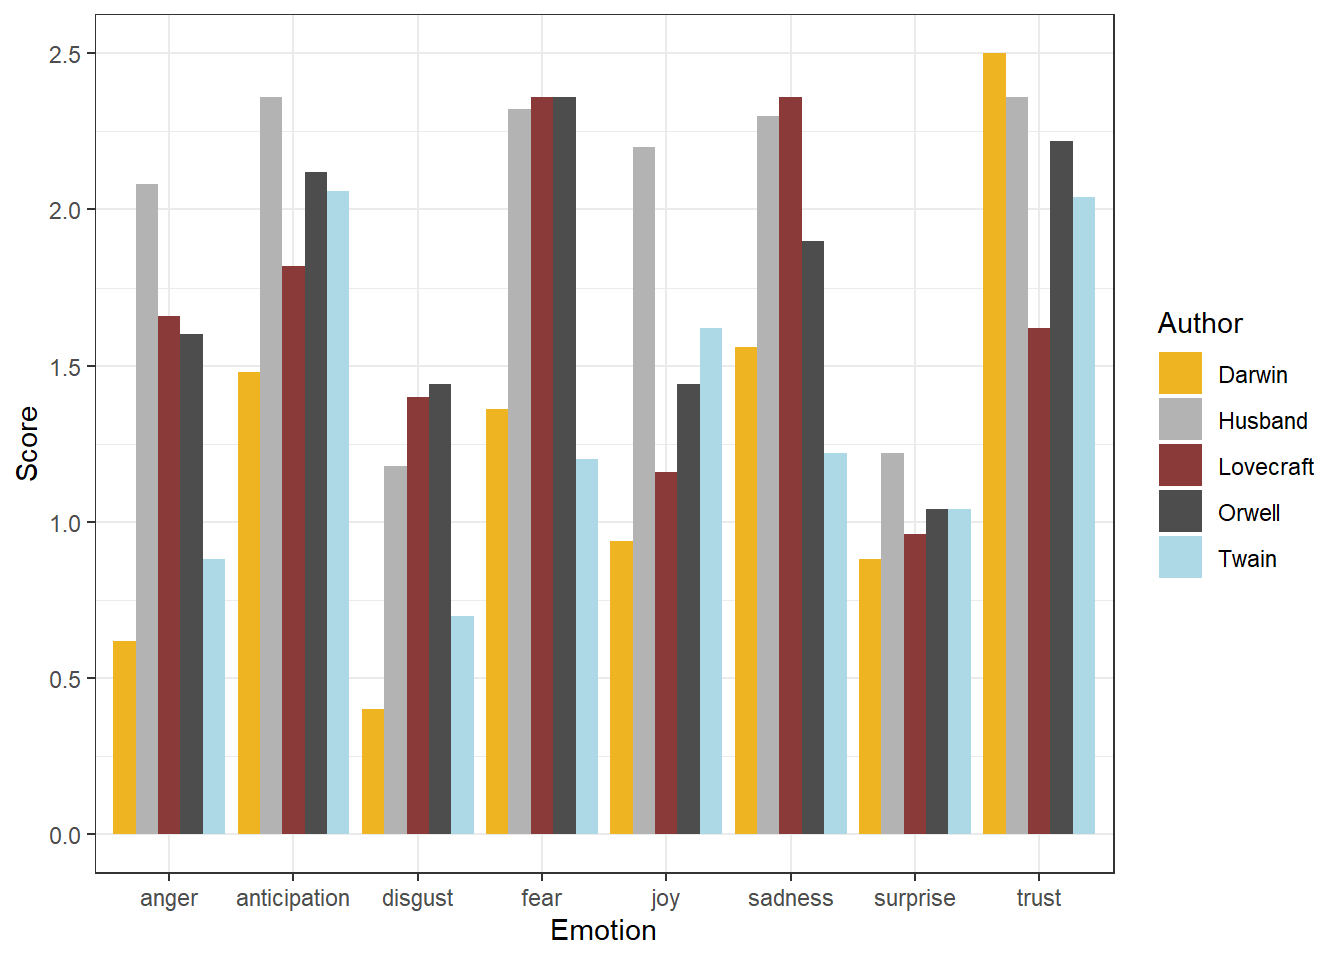
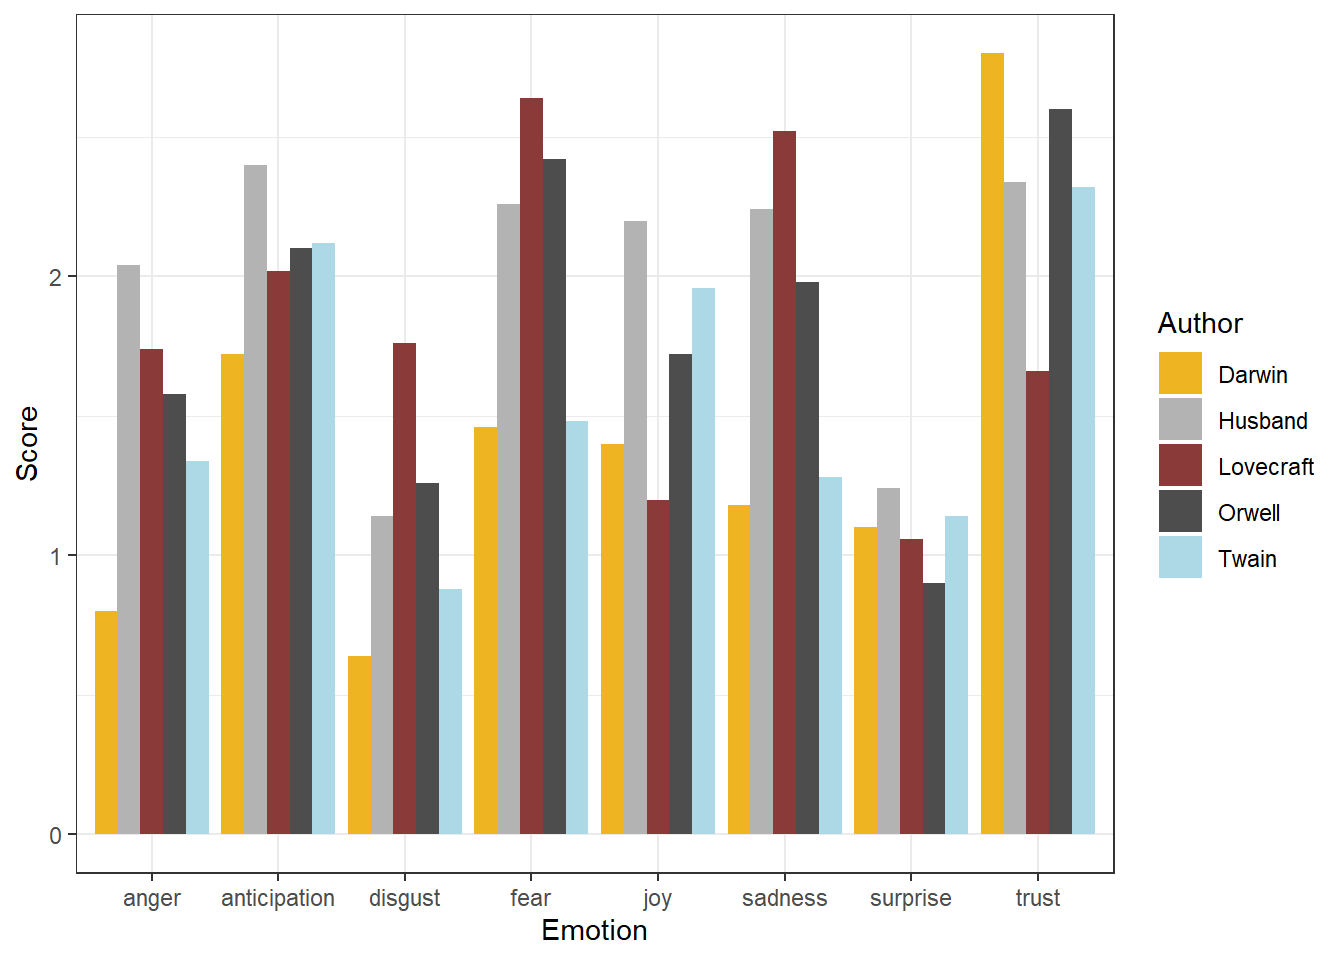
index and regression update

diff --git a/kwics.html b/kwics.html
@@ -465,6 +465,9 @@ div.tocify {
       <a href="topicmodels.html">Topic Modeling</a>
     </li>
     <li>
+      <a href="sentiment.html">Sentiment Analysis</a>
+    </li>
+    <li>
       <a href="tagging.html">Tagging and Parsing</a>
     </li>
   </ul>
@@ -562,54 +565,12 @@ install.packages(c(&quot;quanteda&quot;, &quot;dplyr&quot;, &quot;stringr&quot;,
 <h2>Loading and processing textual data</h2>
 <p>Before creating concordances or kwics, we load the necessary packages from the R library which will help to download, process, and display the data as well as create the concordances.</p>
 <pre class="r"><code># activate packages
-lapply(c(&quot;quanteda&quot;, &quot;dplyr&quot;, &quot;stringr&quot;, &quot;knitr&quot;, &quot;kableExtra&quot;, &quot;gutenbergr&quot;), 
-       library, character.only = TRUE)</code></pre>
-<pre><code>## Package version: 2.1.1</code></pre>
-<pre><code>## Parallel computing: 2 of 8 threads used.</code></pre>
-<pre><code>## See https://quanteda.io for tutorials and examples.</code></pre>
-<pre><code>## 
-## Attaching package: &#39;quanteda&#39;</code></pre>
-<pre><code>## The following object is masked from &#39;package:utils&#39;:
-## 
-##     View</code></pre>
-<pre><code>## 
-## Attaching package: &#39;dplyr&#39;</code></pre>
-<pre><code>## The following objects are masked from &#39;package:stats&#39;:
-## 
-##     filter, lag</code></pre>
-<pre><code>## The following objects are masked from &#39;package:base&#39;:
-## 
-##     intersect, setdiff, setequal, union</code></pre>
-<pre><code>## 
-## Attaching package: &#39;kableExtra&#39;</code></pre>
-<pre><code>## The following object is masked from &#39;package:dplyr&#39;:
-## 
-##     group_rows</code></pre>
-<pre><code>## [[1]]
-## [1] &quot;quanteda&quot;  &quot;stats&quot;     &quot;graphics&quot;  &quot;grDevices&quot; &quot;utils&quot;     &quot;datasets&quot; 
-## [7] &quot;methods&quot;   &quot;base&quot;     
-## 
-## [[2]]
-## [1] &quot;dplyr&quot;     &quot;quanteda&quot;  &quot;stats&quot;     &quot;graphics&quot;  &quot;grDevices&quot; &quot;utils&quot;    
-## [7] &quot;datasets&quot;  &quot;methods&quot;   &quot;base&quot;     
-## 
-## [[3]]
-##  [1] &quot;stringr&quot;   &quot;dplyr&quot;     &quot;quanteda&quot;  &quot;stats&quot;     &quot;graphics&quot;  &quot;grDevices&quot;
-##  [7] &quot;utils&quot;     &quot;datasets&quot;  &quot;methods&quot;   &quot;base&quot;     
-## 
-## [[4]]
-##  [1] &quot;knitr&quot;     &quot;stringr&quot;   &quot;dplyr&quot;     &quot;quanteda&quot;  &quot;stats&quot;     &quot;graphics&quot; 
-##  [7] &quot;grDevices&quot; &quot;utils&quot;     &quot;datasets&quot;  &quot;methods&quot;   &quot;base&quot;     
-## 
-## [[5]]
-##  [1] &quot;kableExtra&quot; &quot;knitr&quot;      &quot;stringr&quot;    &quot;dplyr&quot;      &quot;quanteda&quot;  
-##  [6] &quot;stats&quot;      &quot;graphics&quot;   &quot;grDevices&quot;  &quot;utils&quot;      &quot;datasets&quot;  
-## [11] &quot;methods&quot;    &quot;base&quot;      
-## 
-## [[6]]
-##  [1] &quot;gutenbergr&quot; &quot;kableExtra&quot; &quot;knitr&quot;      &quot;stringr&quot;    &quot;dplyr&quot;     
-##  [6] &quot;quanteda&quot;   &quot;stats&quot;      &quot;graphics&quot;   &quot;grDevices&quot;  &quot;utils&quot;     
-## [11] &quot;datasets&quot;   &quot;methods&quot;    &quot;base&quot;</code></pre>
+library(quanteda)
+library(dplyr)
+library(stringr)
+library(knitr)
+library(kableExtra)
+library(gutenbergr)</code></pre>
 <p>For this tutorial, we will use Charles Darwin’s <em>On the Origin of Species by means of Natural Selection</em> which we download from the <a href="https://www.gutenberg.org/">Project Gutenberg</a> archive <span class="citation">(see Stroube <a href="#ref-stroube2003literary" role="doc-biblioref">2003</a>)</span>. Thus, Darwin’s <em>Origin of Species</em> forms the basis of our analysis. You can use the code below to download this text into R (but you have to have access to the internet to do so).</p>
 <pre class="r"><code>origin &lt;- gutenberg_works(gutenberg_id == &quot;1228&quot;) %&gt;%
   gutenberg_download(meta_fields = &quot;gutenberg_id&quot;)</code></pre>
@@ -3182,6 +3143,15 @@ in accumulating (as will hereafter be more fully
 <div id="citation-session-info" class="section level1 unnumbered">
 <h1>Citation &amp; Session Info</h1>
 <p>Schweinberger, Martin. 2020. <em>Concordancing with R</em>. Brisbane: The University of Queensland. url: <a href="https://slcladal.github.io/kwics.html" class="uri">https://slcladal.github.io/kwics.html</a>.</p>
+<pre><code>@manual{schweinberger2020introqant,
+  author = {Schweinberger, Martin},
+  title = {Concordancing with R},
+  note = {https://slcladal.github.io/kwics.html},
+  year = {2020},
+  organization = &quot;The University of Queensland, School of Languages and Cultures},
+  address = {Brisbane},
+  edition = {2020/09/23}
+}</code></pre>
 <pre class="r"><code>sessionInfo()</code></pre>
 <pre><code>## R version 4.0.2 (2020-06-22)
 ## Platform: x86_64-w64-mingw32/x64 (64-bit)

diff --git a/sentiment.html b/sentiment.html
@@ -664,7 +664,7 @@ husbandemo &lt;- get_nrc_sentiment(husband)
 # inspect data
 head(darwinemo)</code></pre>
 <pre><code>##   anger anticipation disgust fear joy sadness surprise trust negative positive
-## 1     0            0       0    0   0       0        0     0        0        0
+## 1     0            0       0    0   0       0        0     0        1        0
 ## 2     0            0       0    0   0       0        0     0        0        0
 ## 3     0            0       0    0   0       0        0     0        0        0
 ## 4     0            0       0    0   0       0        0     0        0        0
@@ -686,16 +686,16 @@ rownames(emo) &lt;- gsub(&quot;emos&quot;, &quot;&quot;, rownames(emo))
 # inspect data
 head(emo)</code></pre>
 <pre><code>##           anger anticipation disgust fear  joy sadness surprise trust negative
-## darwin     0.62         1.48    0.40 1.36 0.94    1.56     0.88  2.50     2.74
-## twain      0.88         2.06    0.70 1.20 1.62    1.22     1.04  2.04     2.26
-## orwell     1.60         2.12    1.44 2.36 1.44    1.90     1.04  2.22     4.06
-## lovecraft  1.66         1.82    1.40 2.36 1.16    2.36     0.96  1.62     4.30
-## husband    2.08         2.36    1.18 2.32 2.20    2.30     1.22  2.36     4.42
+## darwin     0.80         1.72    0.64 1.46 1.40    1.18     1.10  2.80     2.74
+## twain      1.34         2.12    0.88 1.48 1.96    1.28     1.14  2.32     2.38
+## orwell     1.58         2.10    1.26 2.42 1.72    1.98     0.90  2.60     3.84
+## lovecraft  1.74         2.02    1.76 2.64 1.20    2.52     1.06  1.66     4.92
+## husband    2.04         2.40    1.14 2.26 2.20    2.24     1.24  2.34     4.40
 ##           positive
-## darwin        3.28
-## twain         3.32
-## orwell        3.62
-## lovecraft     3.04
+## darwin        4.26
+## twain         3.72
+## orwell        4.42
+## lovecraft     2.96
 ## husband       4.46</code></pre>
 <pre class="r"><code>#convert into data frame
 emo &lt;- as.data.frame(emo)
@@ -708,12 +708,12 @@ emol &lt;- gather(emo, Emotion, Score, anger:positive, factor_key=TRUE)
 # inspect data
 head(emol)</code></pre>
 <pre><code>##      Author      Emotion Score
-## 1    Darwin        anger  0.62
-## 2     Twain        anger  0.88
-## 3    Orwell        anger  1.60
-## 4 Lovecraft        anger  1.66
-## 5   Husband        anger  2.08
-## 6    Darwin anticipation  1.48</code></pre>
+## 1    Darwin        anger  0.80
+## 2     Twain        anger  1.34
+## 3    Orwell        anger  1.58
+## 4 Lovecraft        anger  1.74
+## 5   Husband        anger  2.04
+## 6    Darwin anticipation  1.72</code></pre>
 <p>Based on this table, we can now visualise the relative emotion scores for each book.</p>
 <pre class="r"><code># load library
 library(ggplot2)
@@ -735,6 +735,15 @@ ggplot(emol2,                   # plot barplotdatagg1
 <div id="citation-session-info" class="section level1 unnumbered">
 <h1>Citation &amp; Session Info</h1>
 <p>Schweinberger, Martin. 2020. <em>Sentiment Analysis in R</em>. Brisbane: The University of Queensland. url: <a href="https://slcladal.github.io/sentiment.html" class="uri">https://slcladal.github.io/sentiment.html</a>.</p>
+<pre><code>@manual{schweinberger2020sentiment,
+  author = {Schweinberger, Martin},
+  title = {Sentiment Analysis in R},
+  note = {https://slcladal.github.io/sentiment.html},
+  year = {2020},
+  organization = &quot;The University of Queensland, School of Languages and Cultures},
+  address = {Brisbane},
+  edition = {2020/09/23}
+}</code></pre>
 <pre class="r"><code>sessionInfo()</code></pre>
 <pre><code>## R version 4.0.2 (2020-06-22)
 ## Platform: x86_64-w64-mingw32/x64 (64-bit)

diff --git a/index.html b/index.html
@@ -565,16 +565,9 @@ div.tocify {
 </div>
 <div id="disclaimer" class="section level1 unnumbered">
 <h1>Disclaimer</h1>
-<p>The content of this website is free and comes with ABSOLUTELY NO WARRANTY. You are welcome to redistribute the content of LADAL resources given you adhere to the licensing. The content of this website is distributed under the terms of the <a href="https://slcladal.netlify.com/license.html">GNU General Public License, Version 3, June 2007</a>.</p>
 <p><img src="images/uq_campus.jpg" width="45%" style="float:right; padding:15px" /></p>
-<p>University of Queensland<br />
-School of Languages and Cultures<br />
-Room 320, Third Floor, Gordon Greenwood Building (32)<br />
-The University of Queensland<br />
-St Lucia QLD 4072, Australia</p>
-<p>Email: <a href="mailto:languages-cultures@uq.edu.au" class="email">languages-cultures@uq.edu.au</a><br />
-Phone: (07) 3365 6311<br />
-Fax: (07) 3365 6799</p>
+<p><br></p>
+<p>The content of this website is free and comes with ABSOLUTELY NO WARRANTY. You are welcome to redistribute the content of LADAL resources given you adhere to the licensing. The content of this website is distributed under the terms of the <a href="https://slcladal.netlify.com/license.html">GNU General Public License, Version 3, June 2007</a>.</p>
 <p><br><br></p>
 <hr />
 <p><strong>Share and Enjoy!</strong></p>
